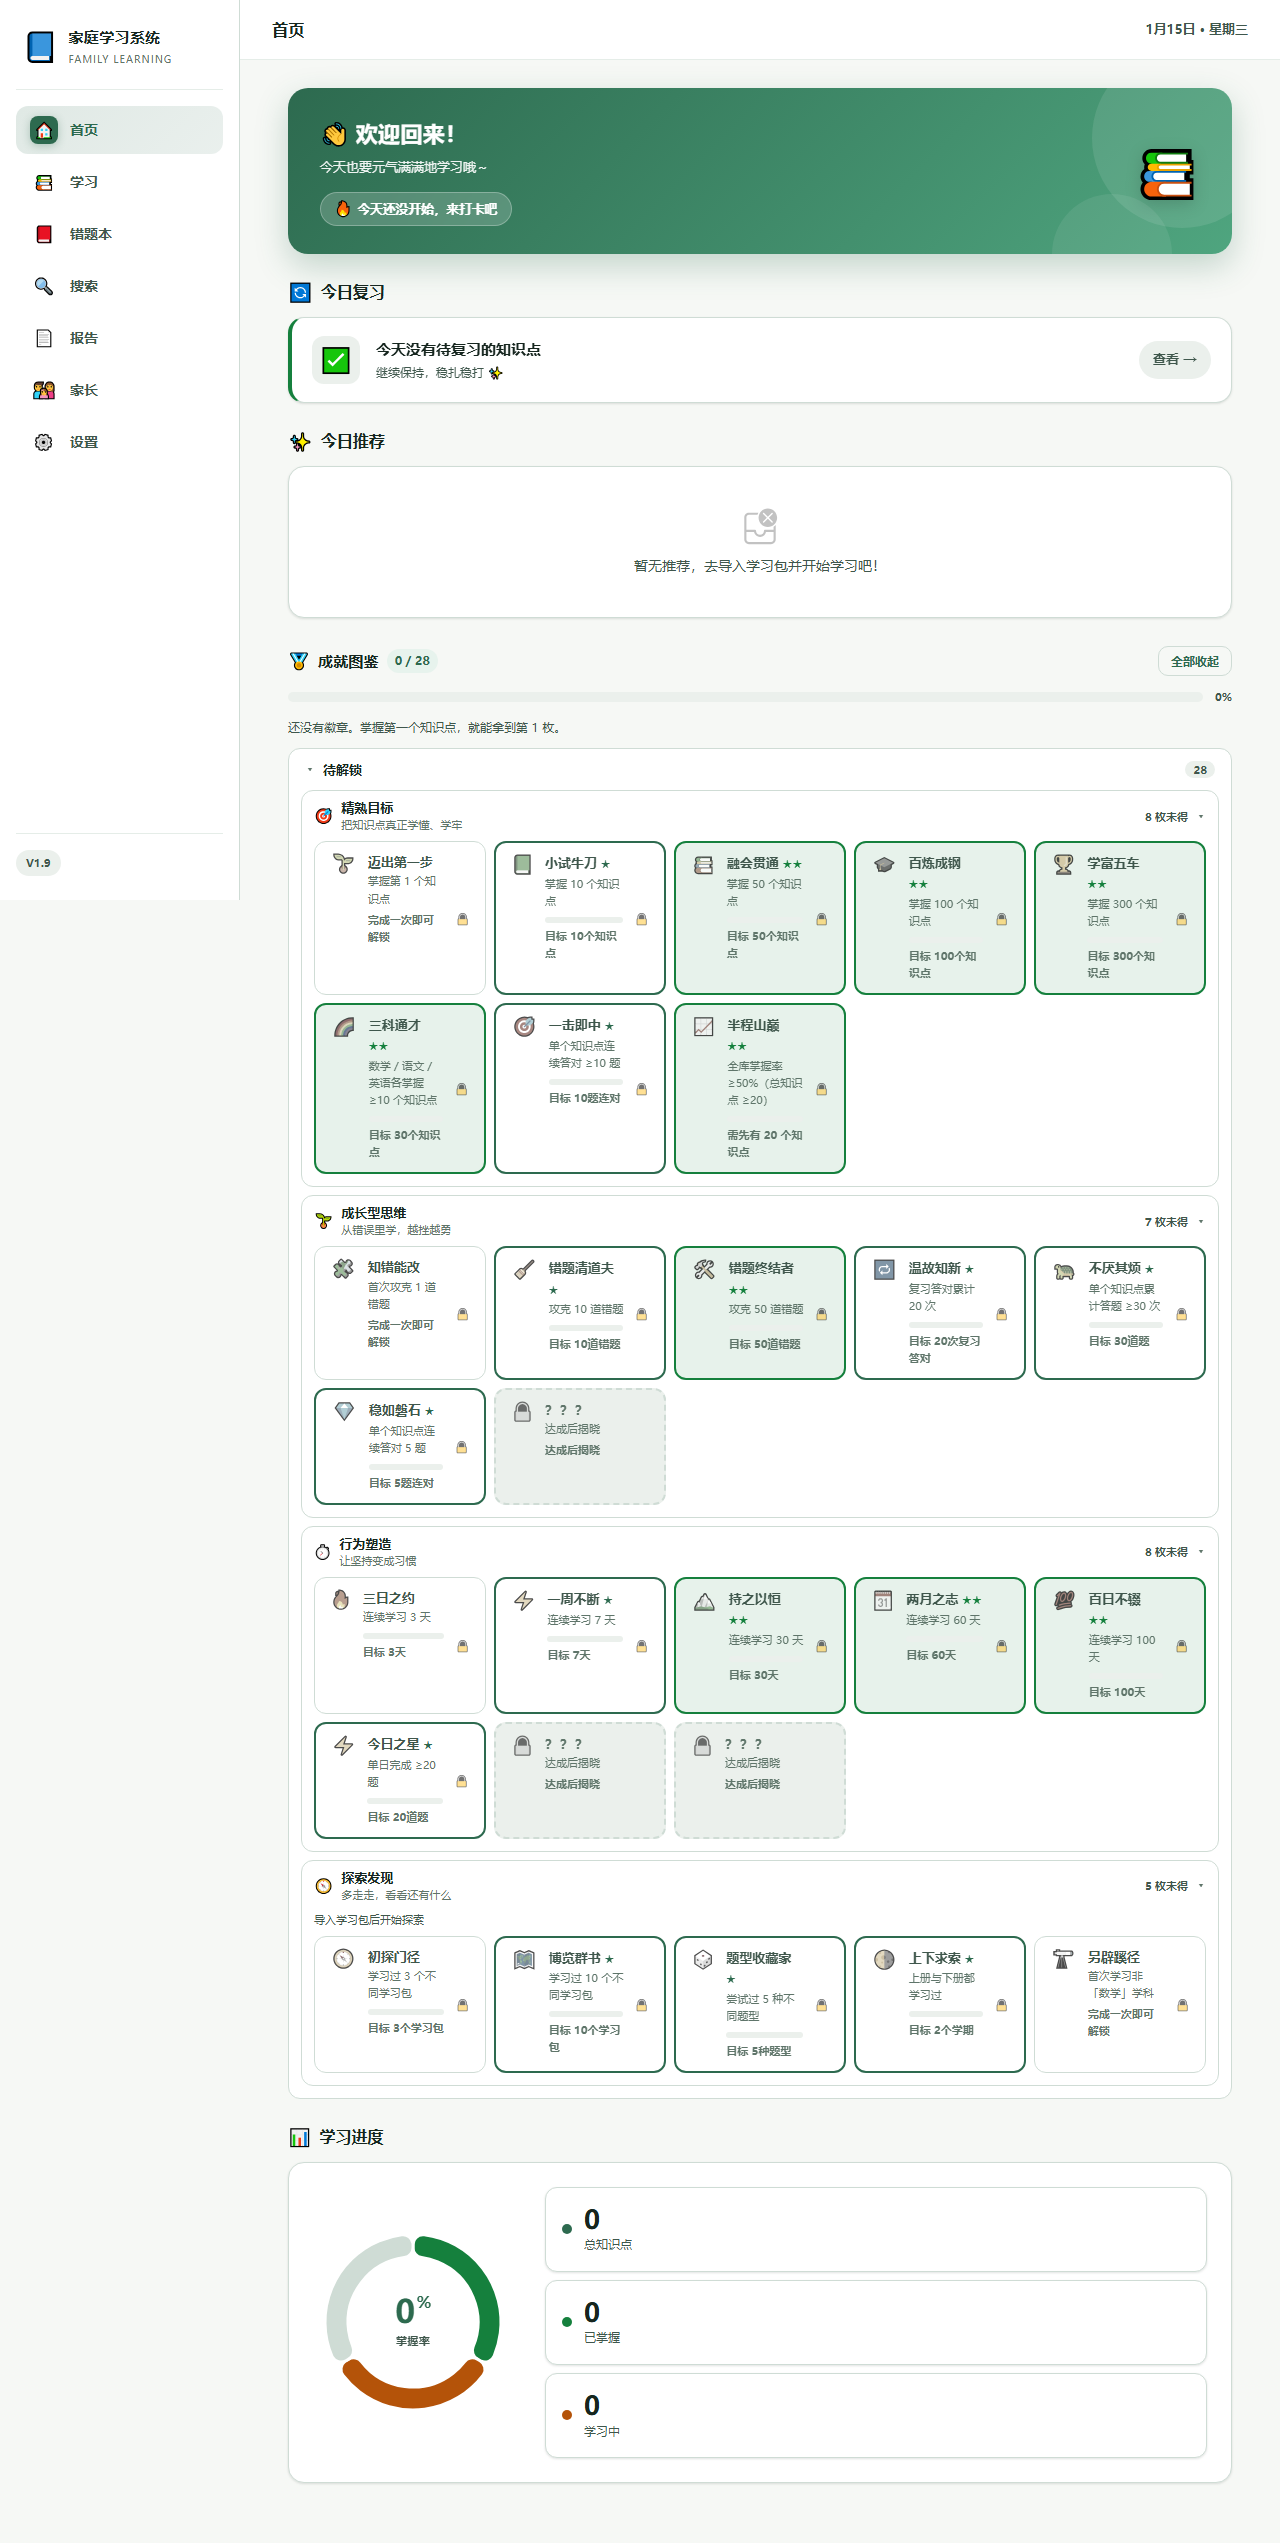
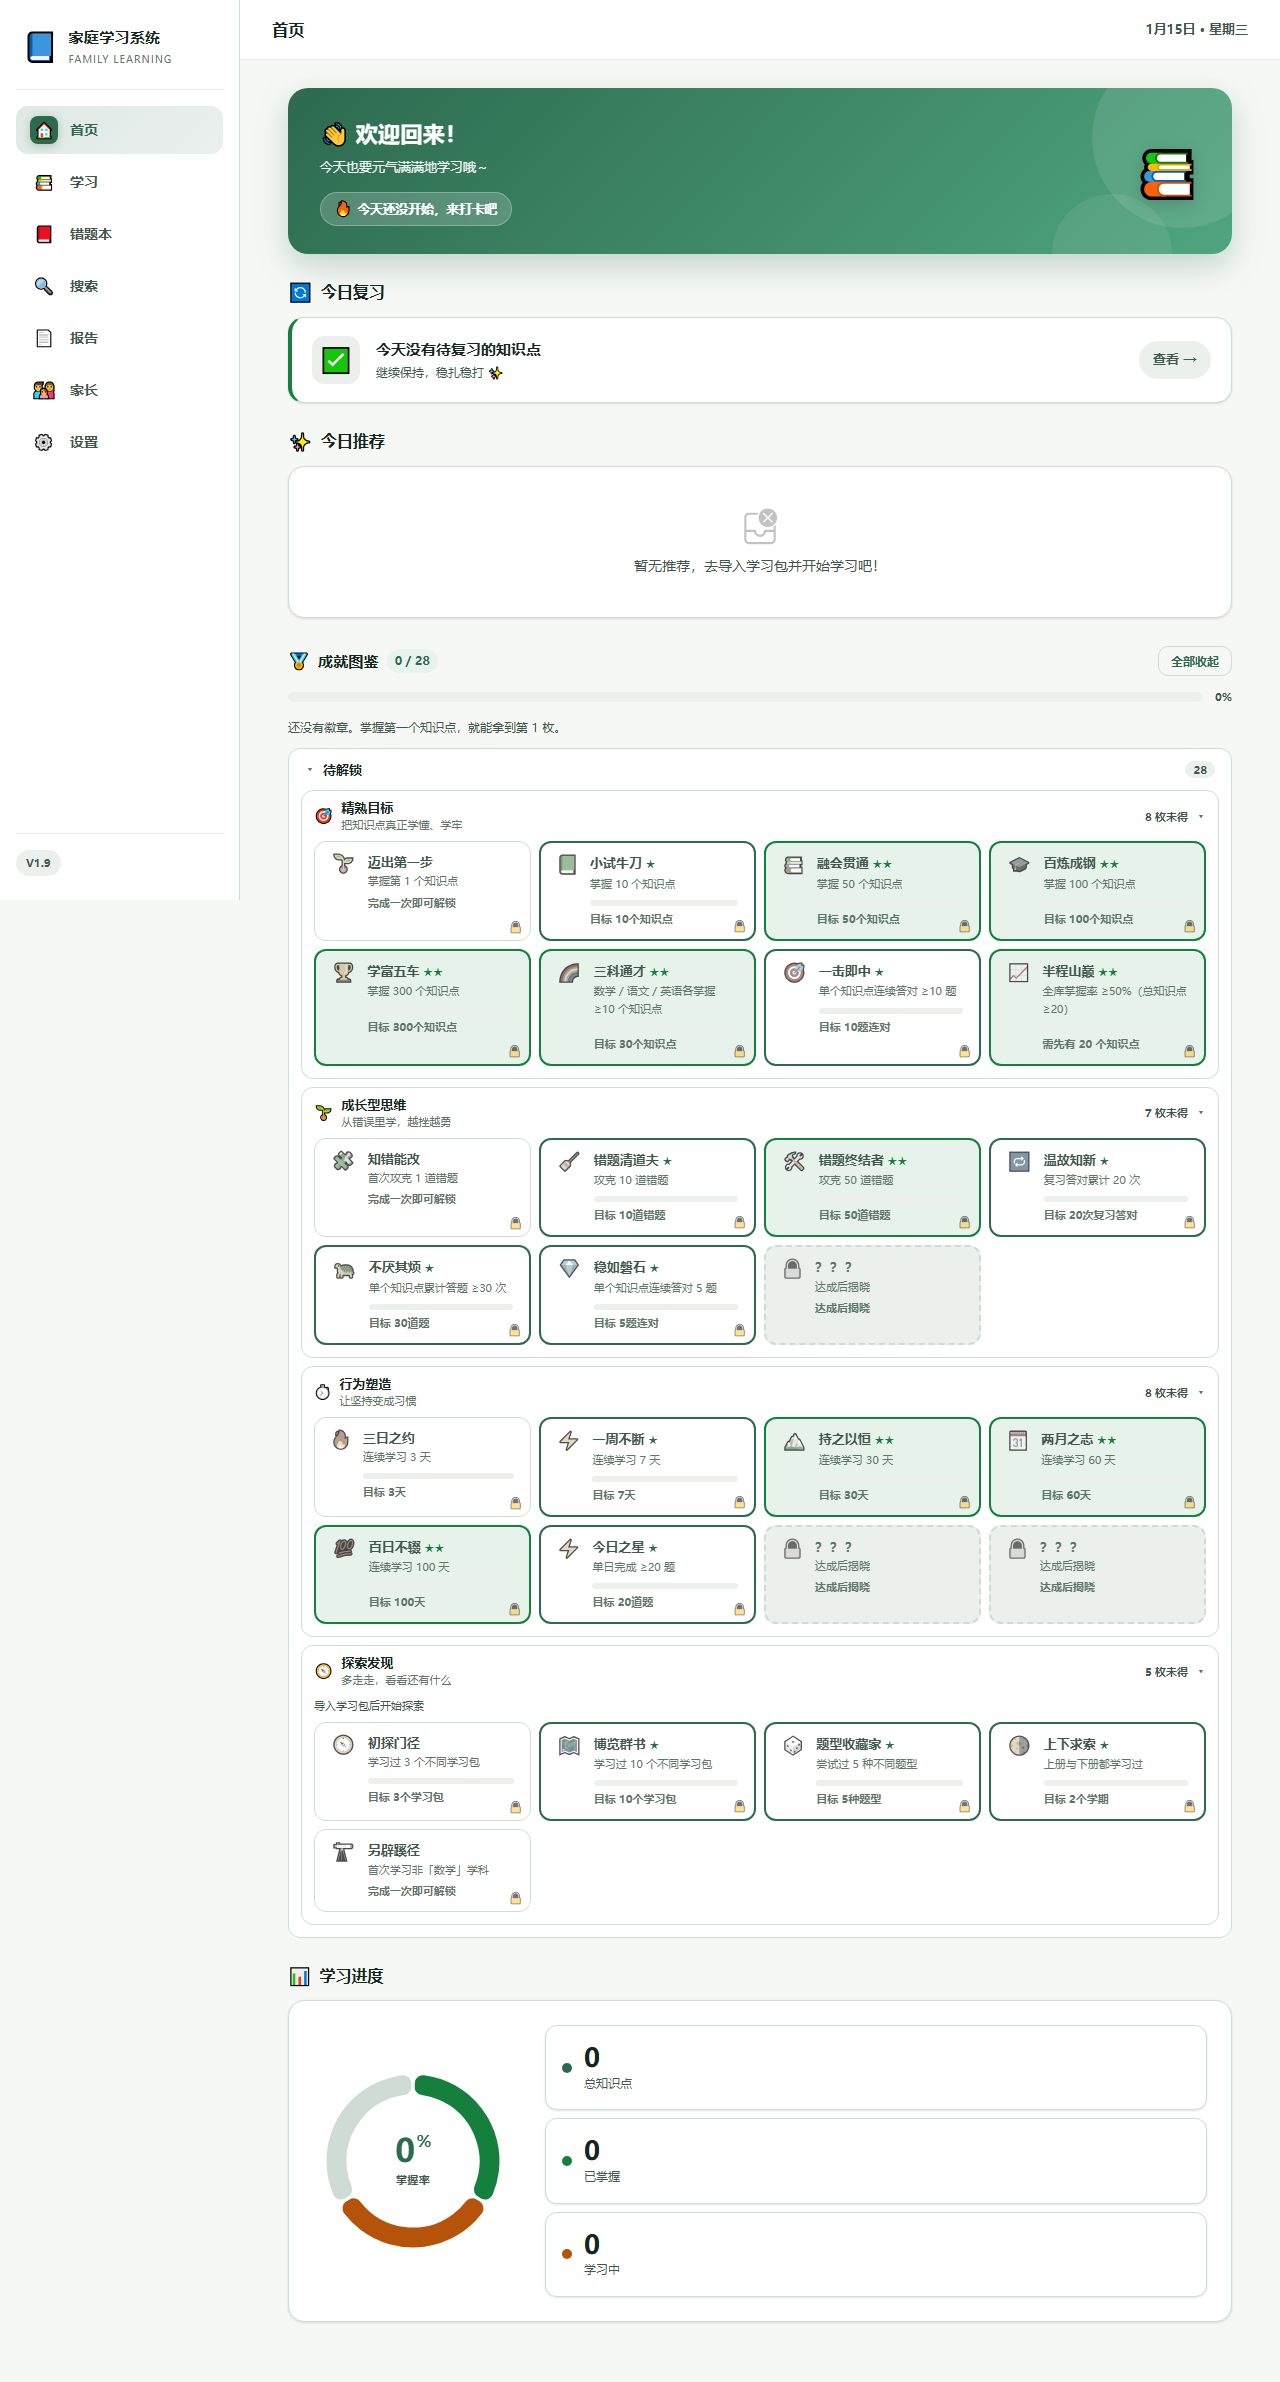
fix(ui): 成就卡正文不再被挤成「知识/点」+ 验证命令兼容 PowerShell 5.1
- AchievementSection：网格最小列宽 160→196px，1280 宽下 6 列→4~5 列，正文宽 +25%
- AchievementCard：锁角标改绝对定位贴右下角，正文多回约 26px；hint 让出 18px 防压字
- package.json：新增 typecheck / verify（tokens:check→typecheck→lint:styles→check:hex→check:text-color→test），
  Windows PowerShell 5.1 不支持 &&，改用一条 npm run verify
- playwright.config：PW_TRACE=off 开关 —— 本机安全软件拦取证目录写入会让正常用例记成 EPERM 失败
- vite.config：watch.ignored 补 .dist-prev / test-results / playwright-report（打包搬运会触发整页 reload）
- 基线截图重生成；e2e 53 passed（PW_TRACE=off，2.4m）；单测 2023/28；build 通过 46s

diff --git a/playwright.config.ts b/playwright.config.ts
@@ -14,8 +14,10 @@ export default defineConfig({
   use: {
     baseURL: 'http://localhost:5173',
     viewport: { width: 1280, height: 900 },
-    // 失败时留证据（PRD §7.3 AC-E3-6）：trace 只在失败用例上保留，不占空间
-    trace: 'retain-on-failure',
+    // 失败时留证据（PRD §7.3 AC-E3-6）：trace 只在失败用例上保留，不占空间。
+    // 本机安全软件会拦 `test-results/**` 的写入，导致 browserContext.close 抛 EPERM、
+    // 把一个正常的用例记成失败。可用 `PW_TRACE=off npx playwright test` 关掉取证后复跑。
+    trace: process.env.PW_TRACE === 'off' ? 'off' : 'retain-on-failure',
     screenshot: 'only-on-failure',
   },
   webServer: {

diff --git a/src/components/AchievementCard.vue b/src/components/AchievementCard.vue
@@ -192,6 +192,8 @@ const ariaLabel = computed(() => {
 
   .ach-hint {
     margin-top: $space-1;
+    /* 右下角有锁角标（absolute），文案让出 18px 免得压在上面 */
+    padding-right: 18px;
     font-size: $font-2xs;
     font-weight: 600;
     color: $text-muted;
@@ -255,12 +257,15 @@ const ariaLabel = computed(() => {
     box-shadow: $shadow-sm;
   }
 
+  /* 右下角状态角标：脱离文档流，不再从正文里抢 26px 宽度 */
   .ach-lock {
-    flex-shrink: 0;
+    position: absolute;
+    right: $space-2;
+    bottom: $space-2;
     font-size: $font-2xs;
     line-height: 1;
     opacity: 0.55;
-    align-self: center;
+    pointer-events: none;
   }
 
   .ach-seal {

diff --git a/src/components/AchievementSection.vue b/src/components/AchievementSection.vue
@@ -472,7 +472,9 @@ function onToggleAll(): void {
   margin: 0;
   padding: 0 $space-3 $space-3;
   display: grid;
-  grid-template-columns: repeat(auto-fill, minmax(160px, 1fr));
+  /* 196px 是"目标 10 个知识点""完成一次即可解锁"能单行放下的下限。
+     160px 时正文只剩 ~85px，中文会被拆成"知识/点"，读起来像排版坏了。 */
+  grid-template-columns: repeat(auto-fill, minmax(196px, 1fr));
   gap: $space-2;
 }
 

diff --git a/vite.config.ts b/vite.config.ts
@@ -103,6 +103,10 @@ export default defineConfig({
       ignored: [
         '**/src-tauri/**',
         '**/dist/**',
+        // 打包前 `mv dist .dist-prev` 的临时目录：不忽略会每次搬运触发一次整页 reload
+        '**/.dist-prev/**',
+        '**/test-results/**',
+        '**/playwright-report/**',
         '**/.vite/**',
         '**/node_modules/**',
       ],

diff --git a/docs/memory/2026-10-19-v1.3-impl.md b/docs/memory/2026-10-19-v1.3-impl.md
@@ -95,3 +95,27 @@
   但**历史孤儿行**仍需导入/启动时重归因才会消失。
 
 （T05 richText 已随 E-02 落地，不再是缺口。）
+
+## 五、反馈修复（用户实测截图轮）
+
+用户实测截图暴露两件事：成就卡文案被挤断行、验证命令在 Windows PowerShell 5.1 下跑不起来。
+
+| 问题 | 根因 | 修法 |
+|---|---|---|
+| 卡片正文被拆成「知识/点」「完成/一次即可解/锁」 | `.ach-list` 用 `minmax(160px, 1fr)`，1280 宽排到 6 列，正文只剩 ~85px；锁角标还在文档流里再抢 26px | ① 最小列宽 160 → **196px**（"目标 10 个知识点""完成一次即可解锁"能单行放下的下限）；② `.ach-lock` 改 `position:absolute` 贴右下角、`.ach-hint` 让出 18px —— 正文多回 ~26px |
+| `npm run lint:styles && npm run check:hex` 报「标记'&&'不是此版本中的有效语句分隔符」 | Windows PowerShell 5.1 不支持 `&&`（PowerShell 7+ 才有） | 新增 `npm run verify`：`tokens:check → typecheck → lint:styles → check:hex → check:text-color → test`，一条命令跑完，不依赖 shell 链式语法 |
+| `[vite] (client) page reload .dist-prev/index.html` | `server.watch.ignored` 只忽略 `**/dist/**` | 补 `**/.dist-prev/**`、`**/test-results/**`、`**/playwright-report/**` |
+
+**新增 `npm run typecheck`**（`vue-tsc --noEmit`）——之前只能敲 `npx vue-tsc`，进不了 verify 链。
+
+**基线**：`docs/screenshots/home-{light,dark}.png` 因列宽变化重生成（1280 宽下 6 列 → 4~5 列）。
+
+## 六、本机安全软件会拦 e2e 取证文件（重要）
+
+失败用例的 trace 写到 `test-results/**` 时被安全中心拦 → `browserContext.close` 抛
+`EPERM: operation not permitted` → **一个本来正常的用例被记成失败**，且每次拦的用例不同，
+看起来像随机 flaky。判据：`error-context.md` 里**只有 EPERM、没有任何断言失败信息**。
+
+- `playwright.config.ts` 加了开关：`PW_TRACE=off npx playwright test`（默认仍是 `retain-on-failure`）。
+- 排查顺序：先看是不是 EPERM；是就先 `PW_TRACE=off` 复跑，再判断有没有真问题。
+- `docs/screenshots/*.png` 的写入也会被拦（`primitives` / `visual` 恒写盘）→ 这两个 spec 必须前台放行跑。
